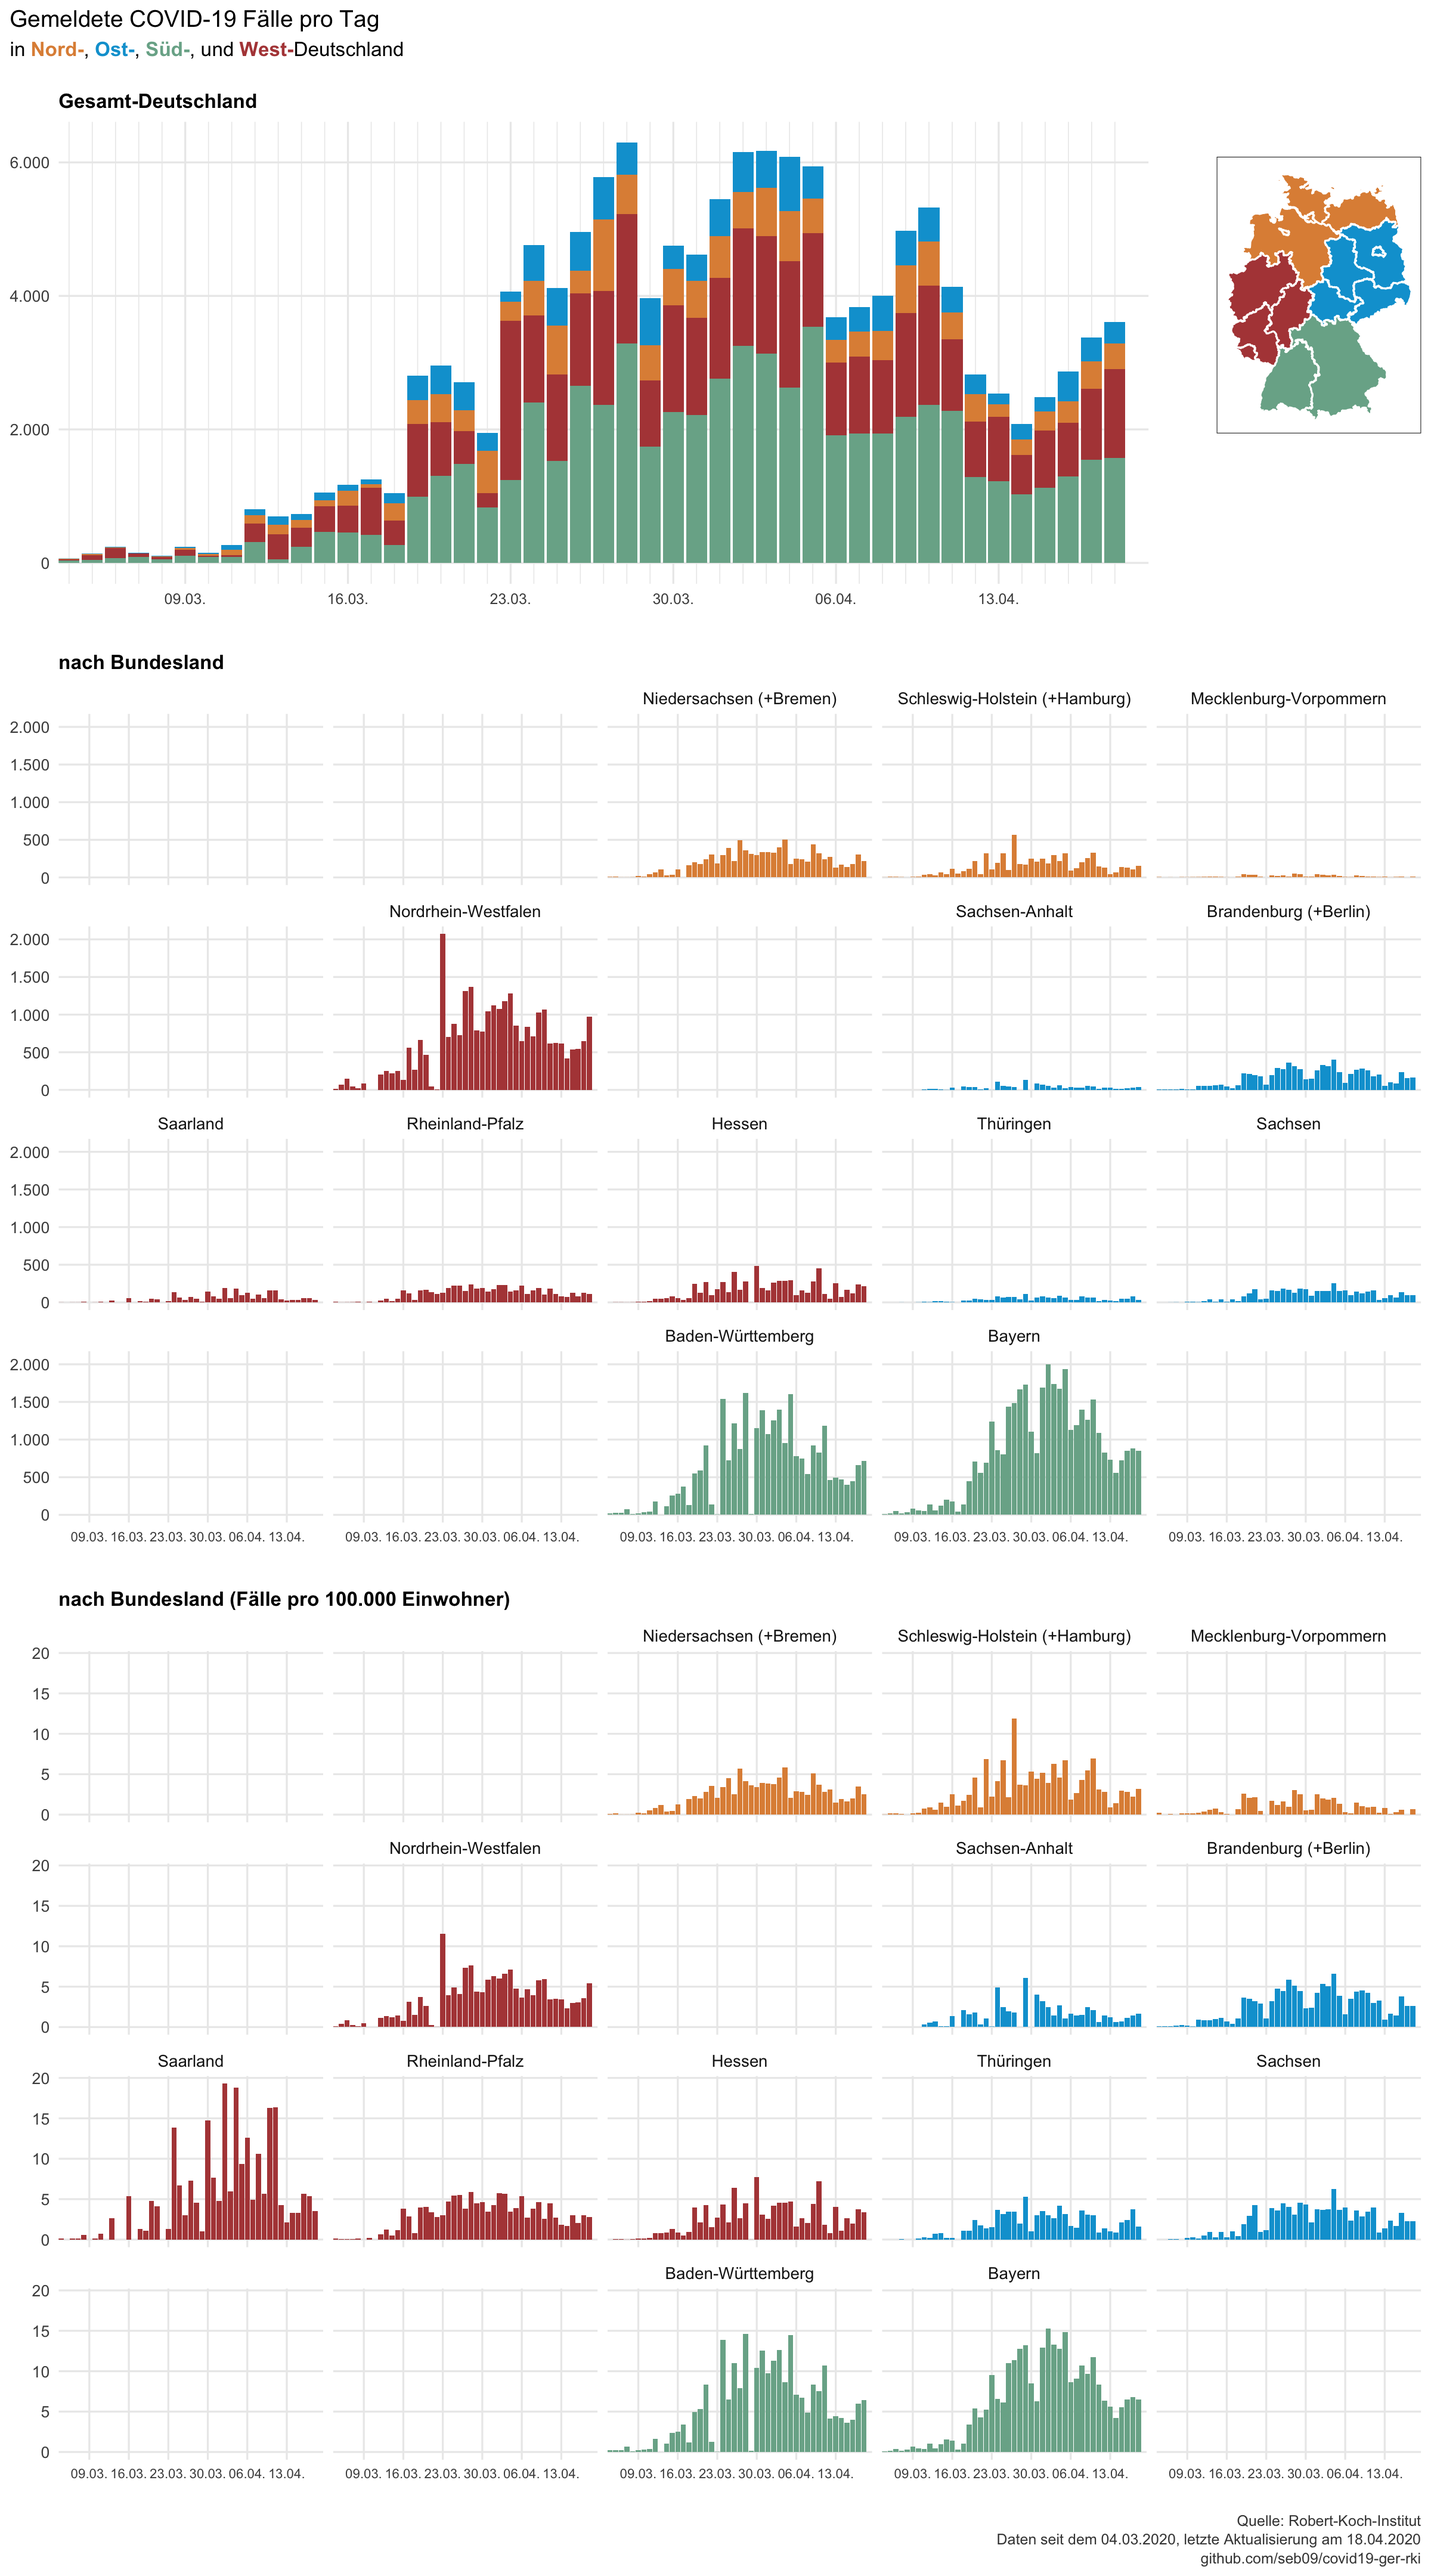
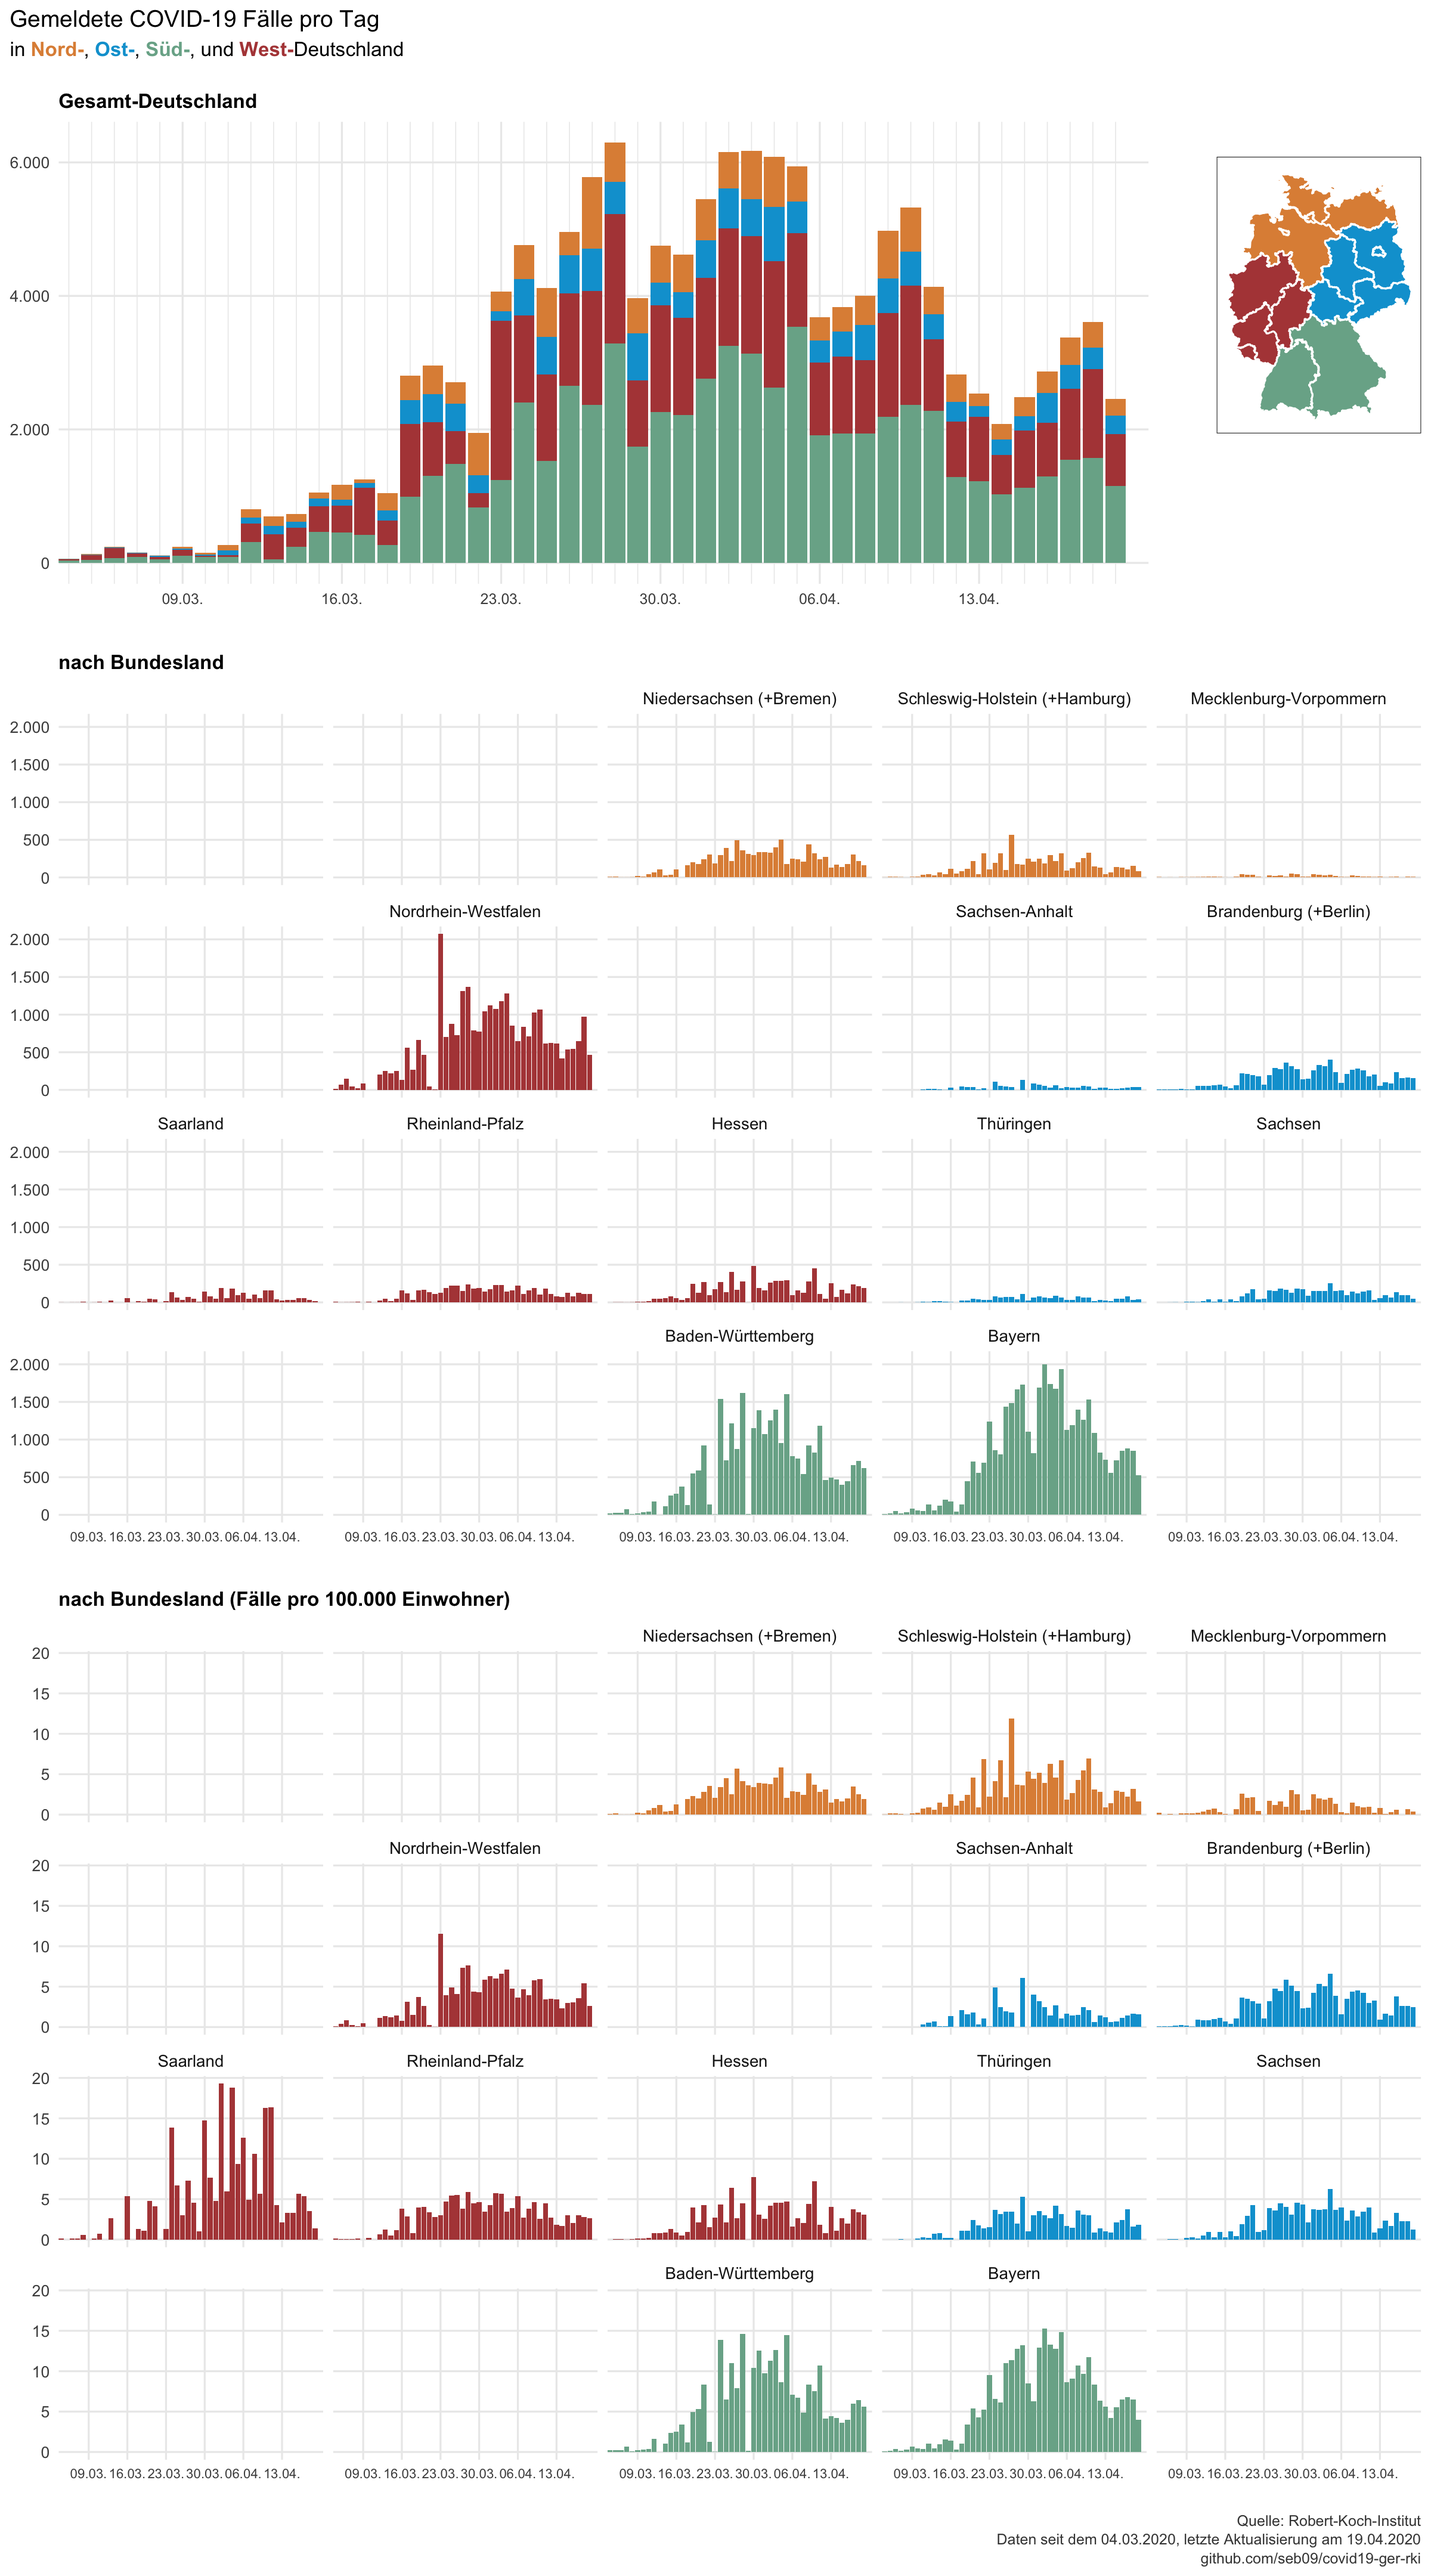
daily update 2020-04-19

diff --git a/README.md b/README.md
@@ -1,6 +1,6 @@
 Data from the Robert-Koch-Institut on COVID-19 in Germany
 ================
-Last update: 2020-04-18
+Last update: 2020-04-19
 
 This repository contains data on reported COVID-19 cases in Germany and
 its federal states that is published daily by the Robert-Koch-Institut
@@ -14,26 +14,26 @@ corona_rki %>%
   print(n = 16)
 ```
 
-    ## # A tibble: 730 x 6
+    ## # A tibble: 746 x 6
     ##    Datum      Bundesland      Fallzahl Todeszahl Fallzahl_neu Todeszahl_neu
     ##    <date>     <chr>              <dbl>     <dbl>        <dbl>         <dbl>
-    ##  1 2020-04-18 Baden-Württemb…    27258       919          715            47
-    ##  2 2020-04-18 Bayern             36881      1198          854            61
-    ##  3 2020-04-18 Berlin              5066        91          121             7
-    ##  4 2020-04-18 Brandenburg         2161        62           41             2
-    ##  5 2020-04-18 Bremen               567        24           11             2
-    ##  6 2020-04-18 Hamburg             4118        90          113             6
-    ##  7 2020-04-18 Hessen              6916       212          211            15
-    ##  8 2020-04-18 Mecklenburg-Vo…      645        14           11             1
-    ##  9 2020-04-18 Niedersachsen       8649       281          207             7
-    ## 10 2020-04-18 Nordrhein-West…    28006       791          976            65
-    ## 11 2020-04-18 Rheinland-Pfalz     5324        99          113             7
-    ## 12 2020-04-18 Saarland            2289        86           35            10
-    ## 13 2020-04-18 Sachsen             4140       103           92             8
-    ## 14 2020-04-18 Sachsen-Anhalt      1315        29           36             1
-    ## 15 2020-04-18 Schleswig-Hols…     2387        61           38             2
-    ## 16 2020-04-18 Thüringen           1717        50           35             1
-    ## # … with 714 more rows
+    ##  1 2020-04-19 Baden-Württemb…    27883       968          625            49
+    ##  2 2020-04-19 Bayern             37407      1256          526            58
+    ##  3 2020-04-19 Berlin              5159        92           93             1
+    ##  4 2020-04-19 Brandenburg         2221        66           60             4
+    ##  5 2020-04-19 Bremen               585        25           18             1
+    ##  6 2020-04-19 Hamburg             4167        91           49             1
+    ##  7 2020-04-19 Hessen              7108       230          192            18
+    ##  8 2020-04-19 Mecklenburg-Vo…      651        15            6             1
+    ##  9 2020-04-19 Niedersachsen       8797       288          148             7
+    ## 10 2020-04-19 Nordrhein-West…    28471       814          465            23
+    ## 11 2020-04-19 Rheinland-Pfalz     5432       106          108             7
+    ## 12 2020-04-19 Saarland            2303        91           14             5
+    ## 13 2020-04-19 Sachsen             4190       107           50             4
+    ## 14 2020-04-19 Sachsen-Anhalt      1350        30           35             1
+    ## 15 2020-04-19 Schleswig-Hols…     2417        62           30             1
+    ## 16 2020-04-19 Thüringen           1756        53           39             3
+    ## # … with 730 more rows
 
 Data is downloaded each day at 11am from the [website of the
 RKI](https://www.rki.de/DE/Content/InfAZ/N/Neuartiges_Coronavirus/Fallzahlen.html)
